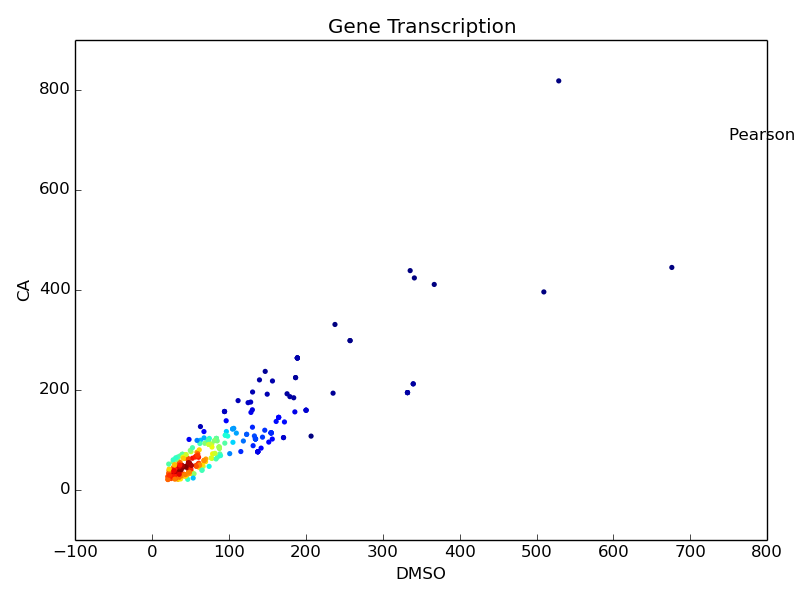
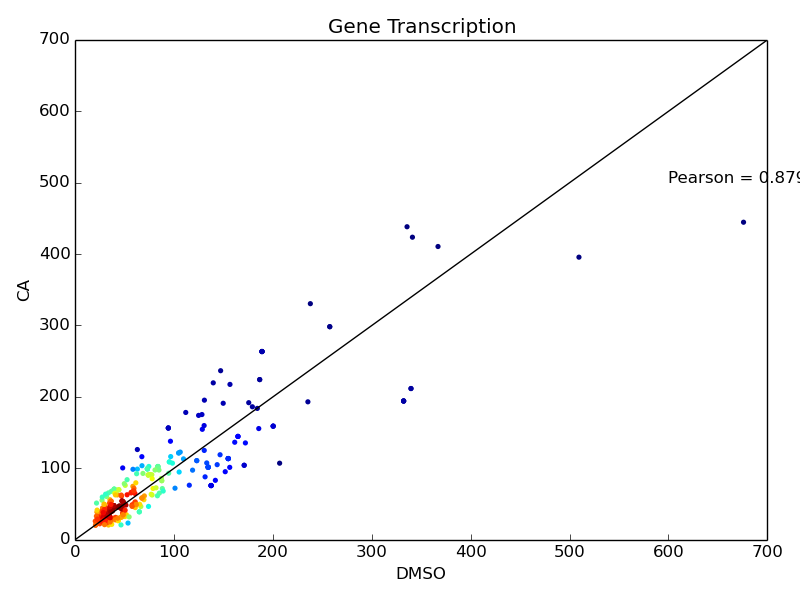
updates

diff --git a/src/master_writer.py b/src/master_writer.py
@@ -467,7 +467,7 @@ def run(DMSOgenes,DMSOTSS,DMSOEND,CAgenes,CATSS,CAEND,filedir,figuredir):
     ax.set_xlabel('DMSO')
     ax.set_ylabel('CA')
     ax.plot([0,50000.0],[0,50000.0],color='k')
-    ax.text(600,500, "Pearson = " + str(pearsons)[0:5])
+    ax.text(300,450, "Pearson = " + str(pearsons)[0:5])
     plt.savefig(figuredir + '/Transcription_UPGenes.png')
     
     
